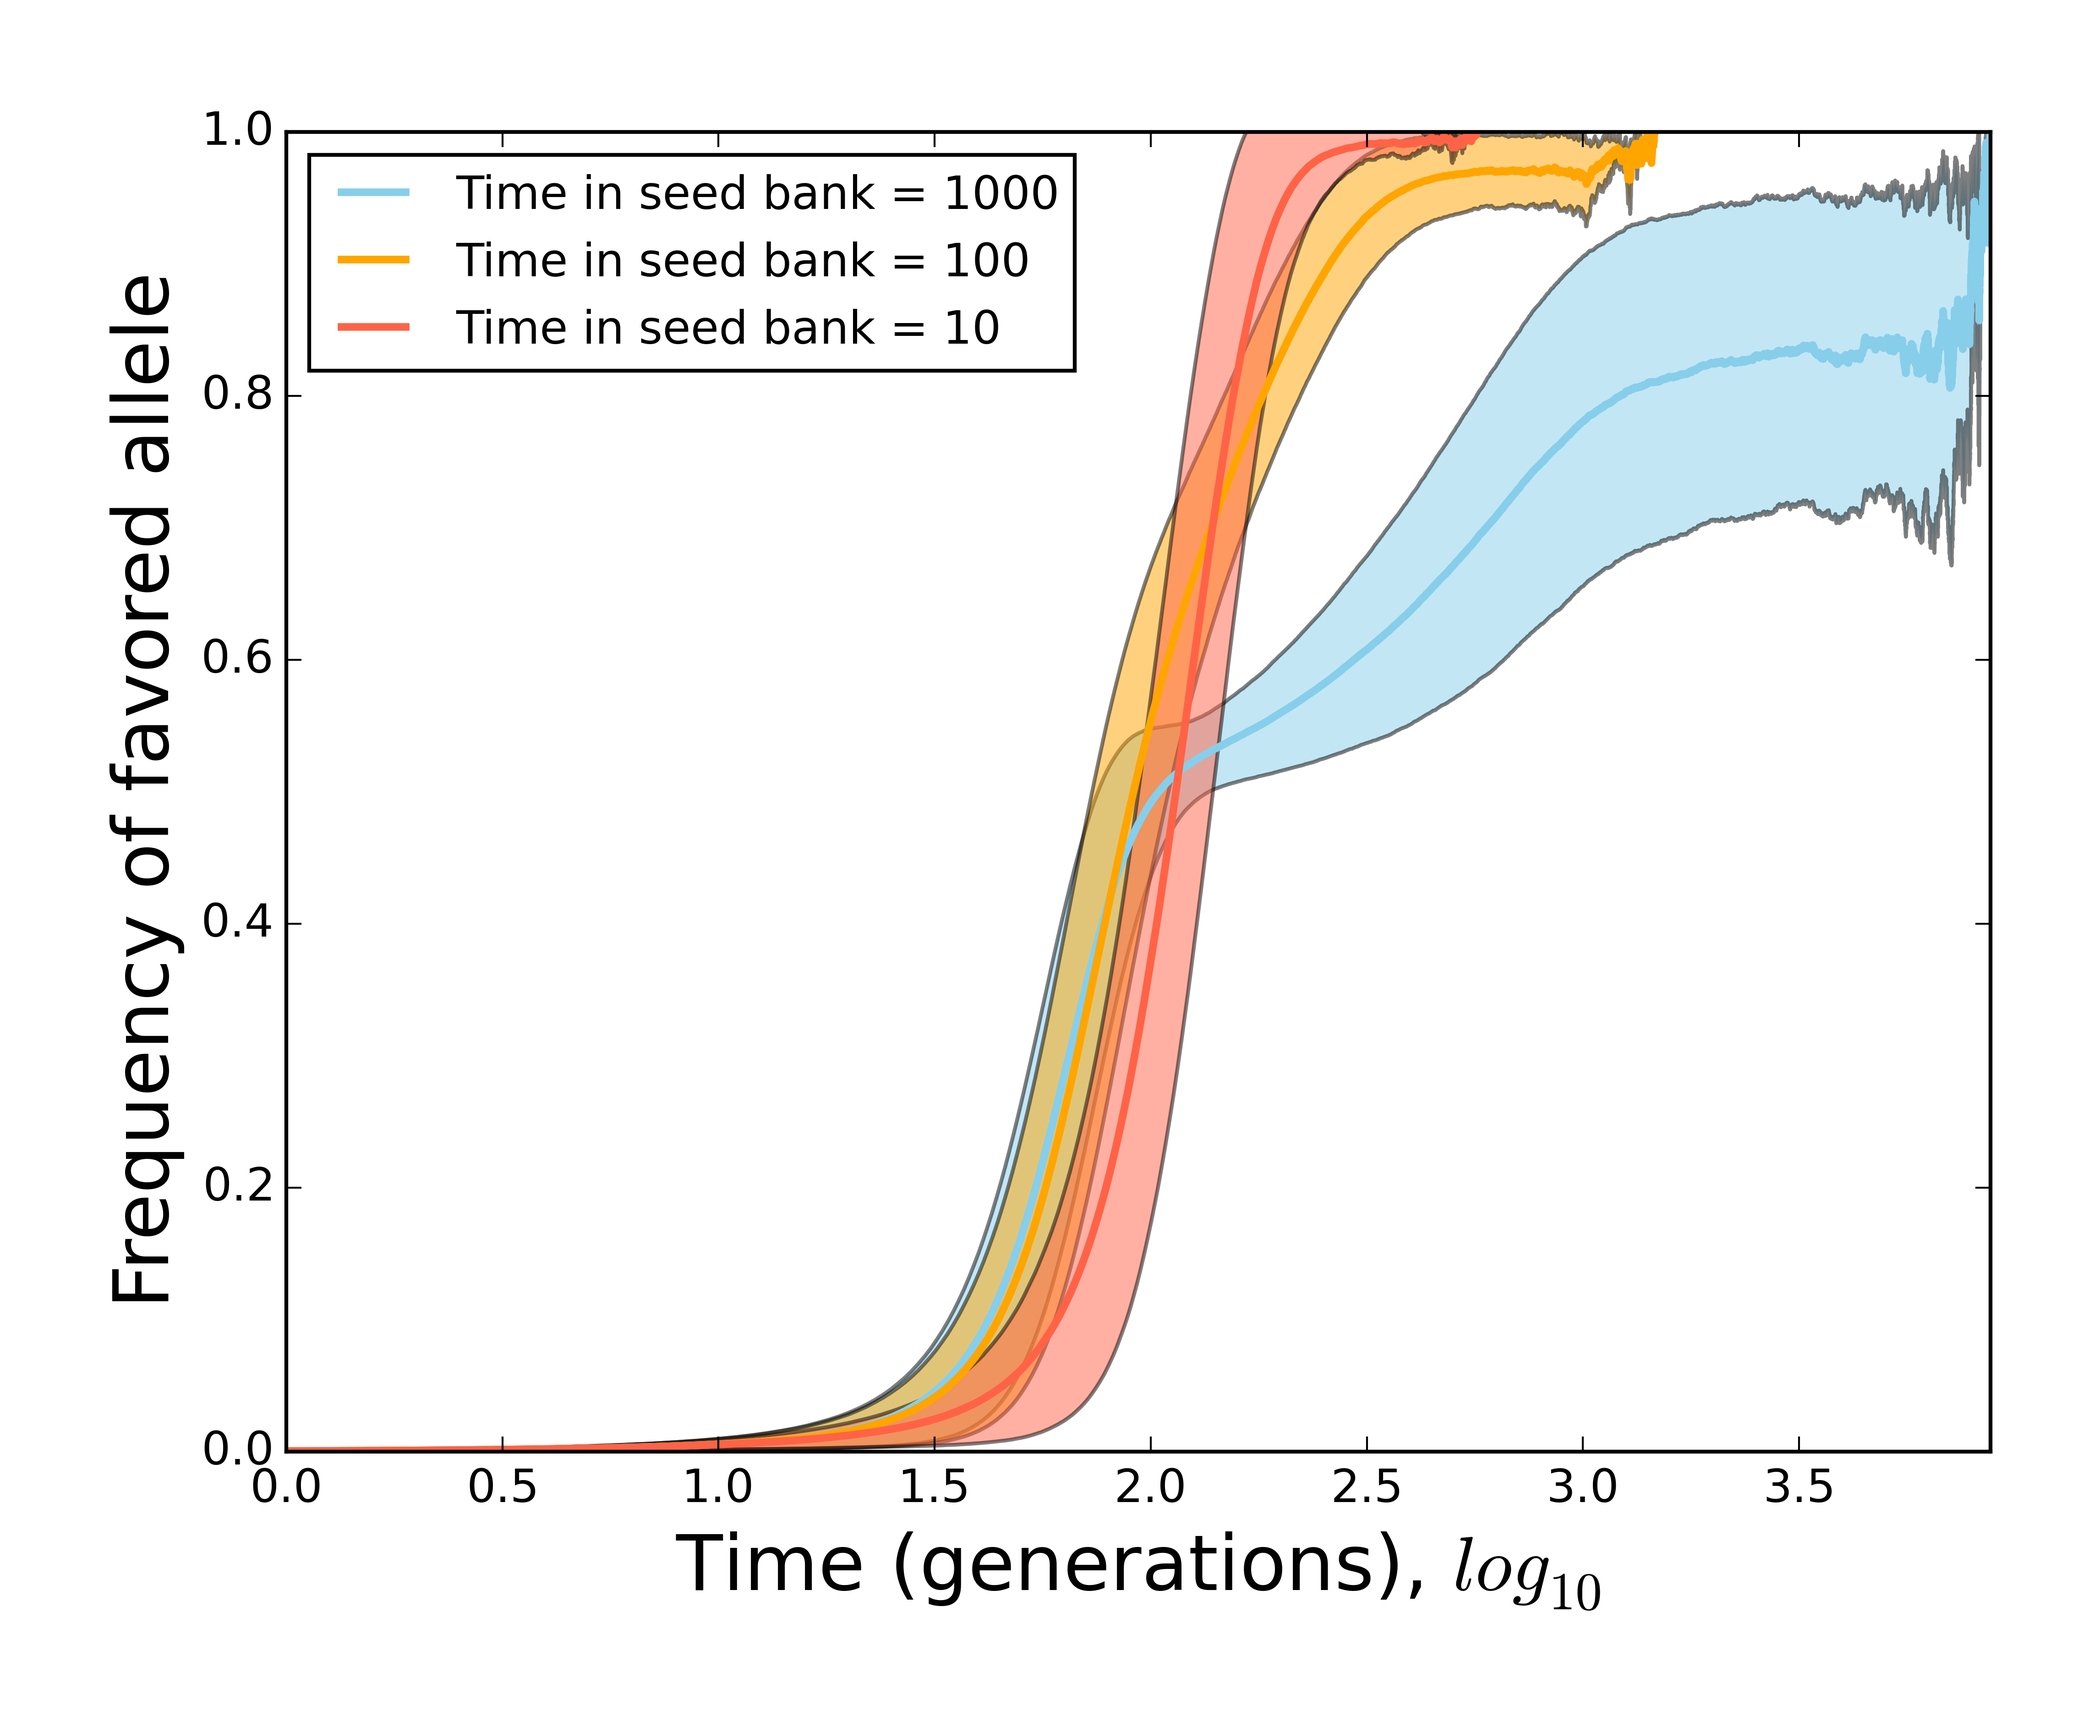
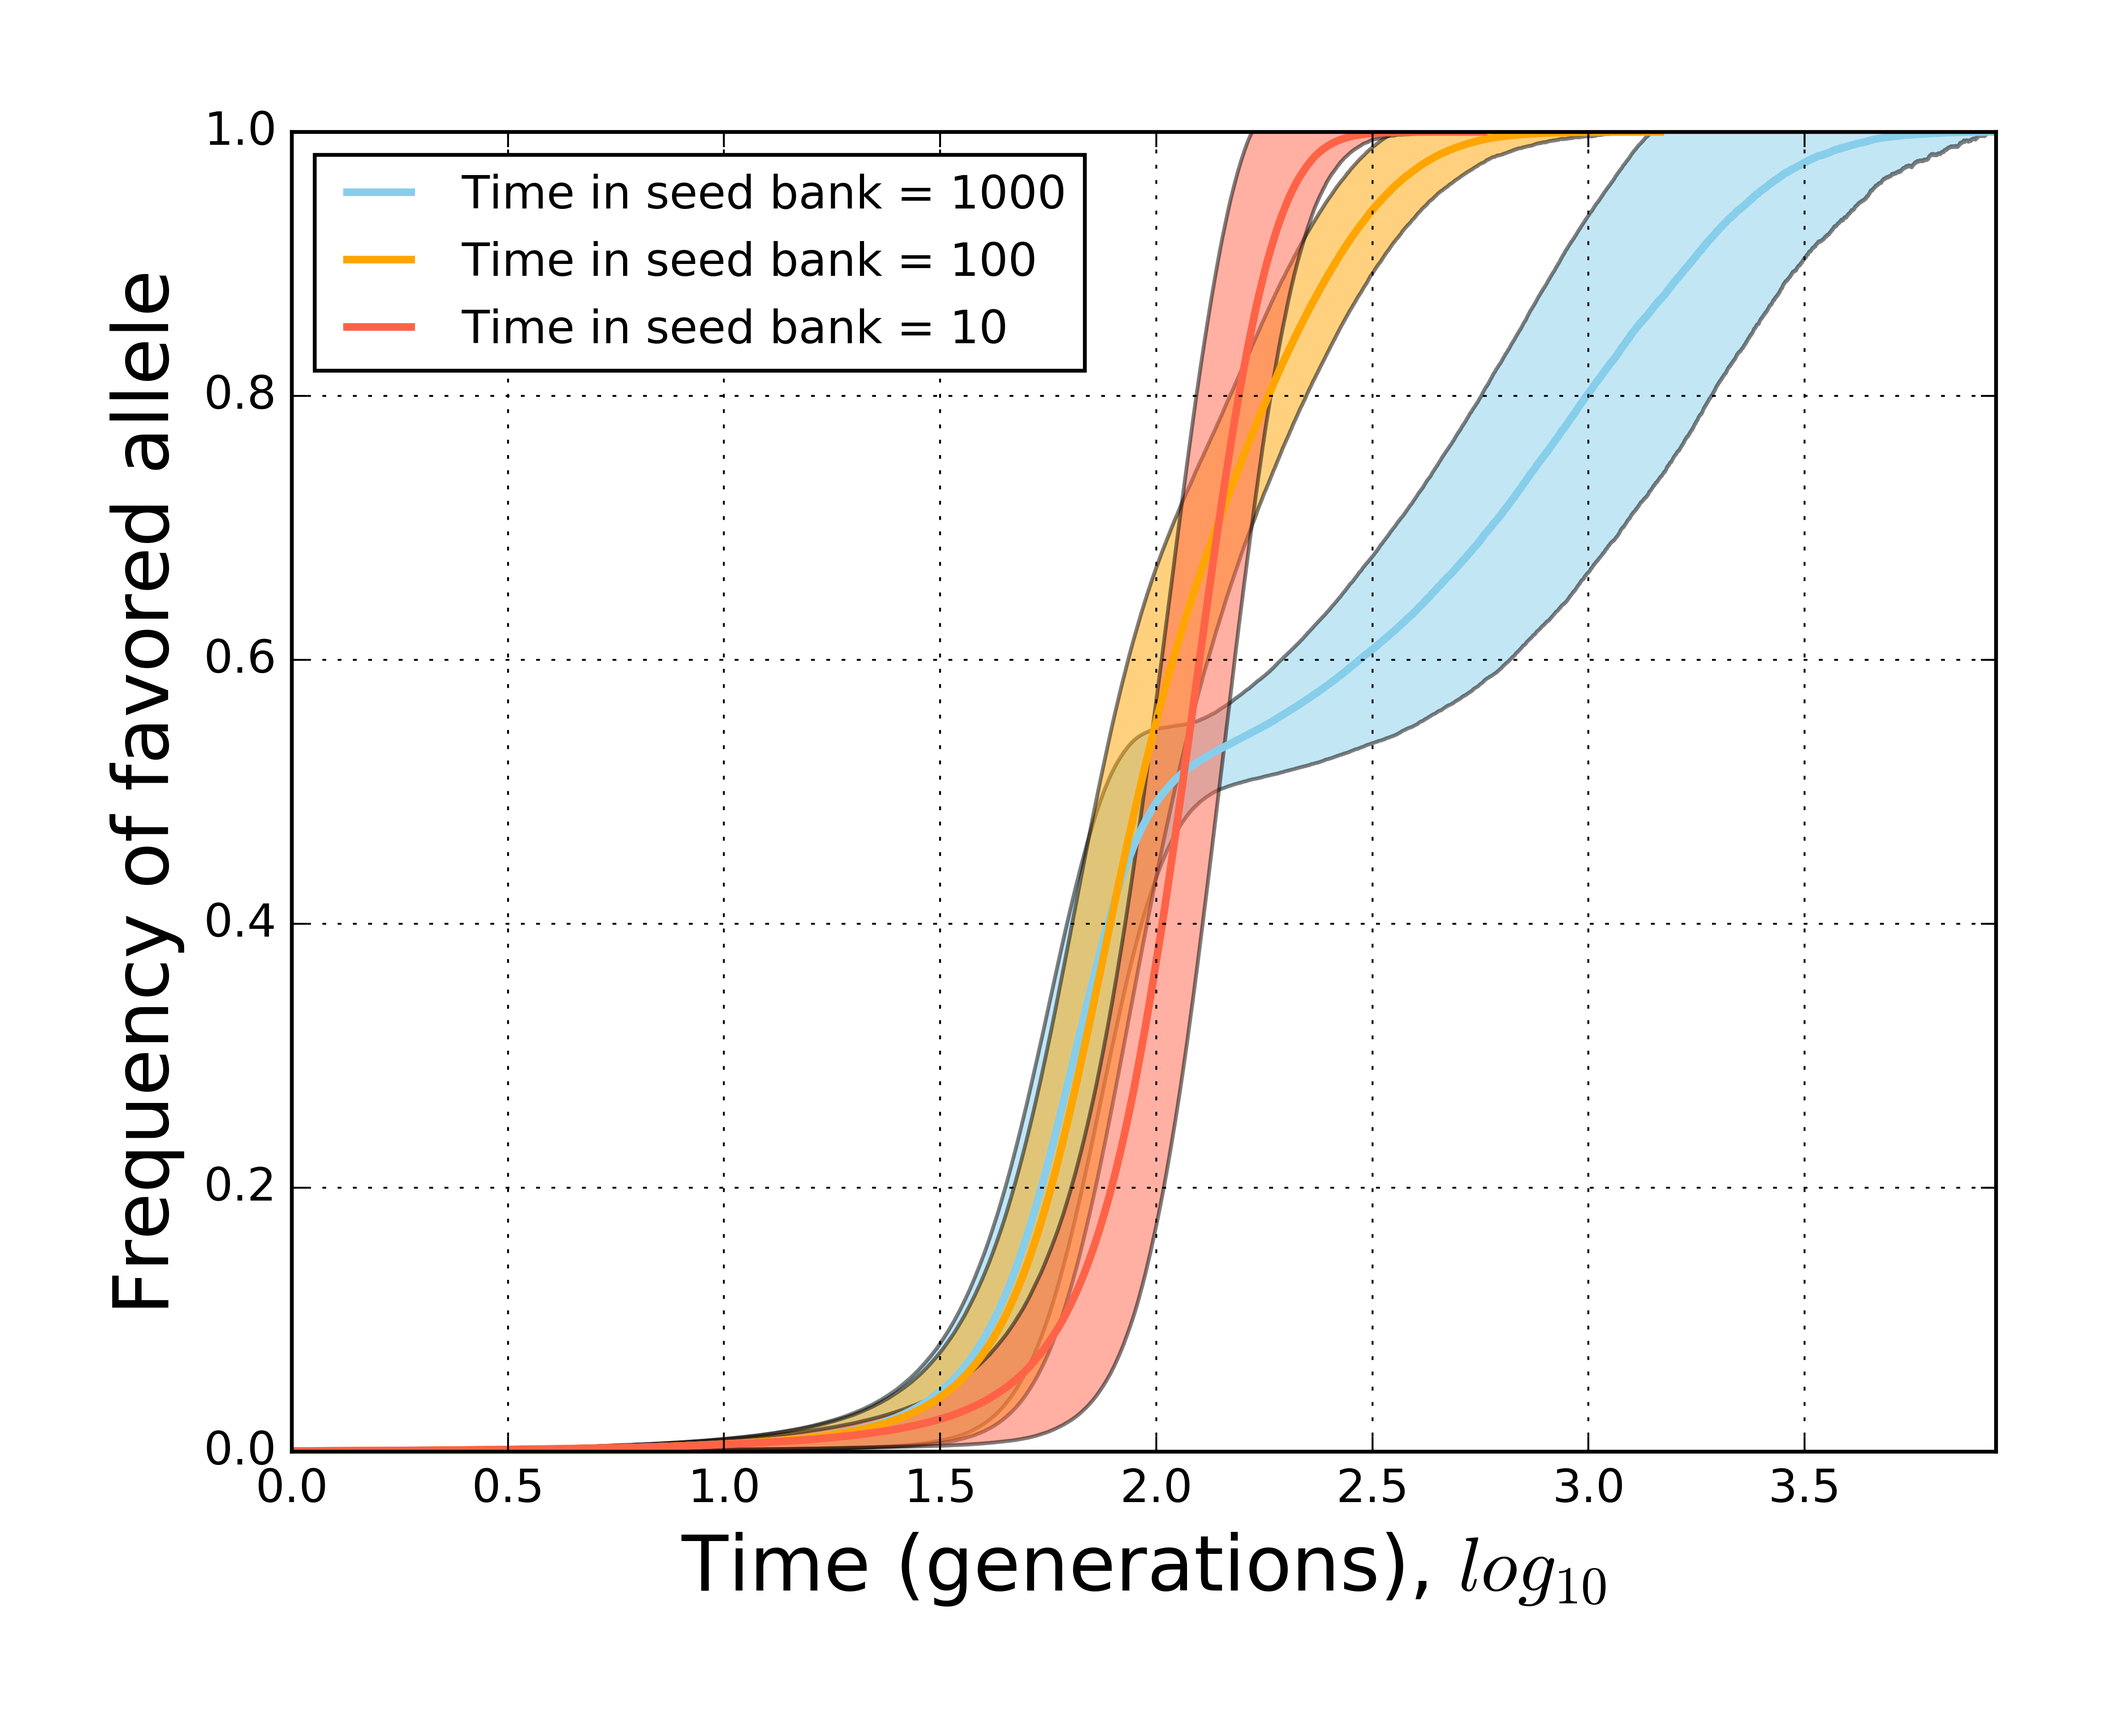
Add analytic model

diff --git a/Python/generateFigs.py b/Python/generateFigs.py
@@ -3,6 +3,8 @@ import pandas as pd
 import  matplotlib.pyplot as plt
 import os, argparse, math, itertools
 import numpy as np
+import scipy as sp
+import scipy.stats
 
 mydir = os.path.expanduser('~/github/DormSweep/')
 
@@ -49,6 +51,8 @@ def sweepDormFig(N = 1000, M = 1000, s = 0.1):
         p = []
         df = pd.read_csv(mydir + 'data/sweeps_dorm/sweep_N_' + str(N) + '_M_' + str(M) + '_c_' + \
             str(c) + '_s_' + str(s) + '.txt', header = None)
+        df = df.fillna(1.0)
+        #print df
 
         for index, row in df.iterrows():
             g.extend(row[~row.isnull()].index.values)
@@ -72,6 +76,7 @@ def sweepDormFig(N = 1000, M = 1000, s = 0.1):
             maxg = max(g)
     ax.set_xlim([0, np.log10(maxg)])
     ax.set_ylim([0, 1])
+    plt.grid()
     ax.legend(loc='upper left', fontsize = 12)
     ax.set_xlabel('Time (generations), ' + r'$log_{10}$', fontsize=20)
     ax.set_ylabel('Frequency of favored allele', fontsize=20)
@@ -79,4 +84,96 @@ def sweepDormFig(N = 1000, M = 1000, s = 0.1):
         bbox_inches = "tight", pad_inches = 0.4, dpi = 600)
     plt.close()
 
+def mean_confidence_interval(data, confidence=0.95):
+    a = 1.0*np.array(data)
+    n = len(a)
+    m, se = np.mean(a), scipy.stats.sem(a)
+    h = se * sp.stats.t._ppf((1+confidence)/2., n-1)
+    return m, m-h, m+h
+
+def TfixFig(M = 10000):
+    pops = ['N', 'M']
+    fig, ax = plt.subplots()
+    colors = ['#87CEEB',  '#FF6347']
+    pop_type = {'N': 'Active', 'M': 'Dormant'}
+    IN_N = pd.read_csv(mydir + 'data/T_fix/T_fix_N_sweep_N_1000_M_10000_s_0.1_r_100.txt', sep = ' ')
+    IN_M = pd.read_csv(mydir + 'data/T_fix/T_fix_M_sweep_N_1000_M_10000_s_0.1_r_100.txt', sep = ' ')
+    df_add = IN_N.add(IN_M, fill_value=0)
+    df = df_add.divide(2, axis=0)
+    Cs = df.columns.values.astype(float)
+    timeInSb = 1 / (Cs / M)
+    means = []
+    std = []
+
+    for column in df:
+        data = df[column].values.astype(float)
+        means.append(np.mean(data))
+        std.append(np.std(data))
+    #means = np.log10(np.asarray(means))
+    means = np.asarray(means)
+    std = np.asarray(std)
+    plt.axvline(x = np.log10(1000), linewidth=2, color='darkgrey',ls='--')
+
+    ax.plot(np.log10(timeInSb), means,  lw = 2, color = '#87CEEB')
+    plt.grid()
+    ax.fill_between(np.log10(timeInSb), means+std, means-std, facecolor='#87CEEB', alpha=0.5)
+
+    ax.set_xlabel('Average time in seed bank, ' + r'$log_{10}$', fontsize=20)
+    ax.set_ylabel( r'$T_{fix}$', fontsize=20)
+    fig.savefig(mydir + 'figs/Tfix.png', \
+    bbox_inches = "tight", pad_inches = 0.4, dpi = 600)
+    plt.close()
+
+
+
+def TfixFigActDorm(M = 10000):
+    pops = ['N', 'M']
+    fig, ax = plt.subplots()
+    colors = ['#87CEEB',  '#FF6347']
+    pop_type = {'N': 'Active', 'M': 'Dormant'}
+    for i, pop in enumerate(pops):
+        IN = pd.read_csv(mydir + 'data/T_fix/T_fix_' + str(pop) + '_sweep_N_1000_M_10000_s_0.1_r_100.txt', sep = ' ')
+        Cs = IN.columns.values.astype(float)
+
+        timeInSb = 1 / (Cs / M)
+        means = []
+        m_plus_hs = []
+        m_minus_hs = []
+        std = []
+        for column in IN:
+            data = IN[column].values.astype(float)
+            #m, m_plus_h, m_minus_h = mean_confidence_interval(data, confidence=0.95)
+            means.append(np.mean(data))
+            std.append(np.std(data))
+            #m_plus_hs.append(m_plus_h)
+            #m_minus_hs.append(m_minus_hs)
+            #print ms, m_plus_hs, m_minus_hs
+        means = np.asarray(means)
+        std = np.asarray(std)
+        #print Cs
+        #print ms
+        #print ms
+        #print len(ms), len(timeInSb)
+        #p_plot_mean = np.asarray(ms)
+        #p_plot_mean_plus_h = np.asarray(m_plus_hs)
+        #p_plot_mean_minus_h = np.asarray(m_minus_hs)
+        #print len(p_plot_mean), len(timeInSb)
+
+        ax.plot(np.log10(timeInSb), means, label= pop_type[pop], lw = 2, color = colors[i])
+        #ax.fill_between(np.log10(range(1, len(timeInSb )+1)), means, m_minus_hs, facecolor=colors[i], alpha=0.5)
+        ax.fill_between(np.log10(timeInSb), means+std, means-std, facecolor=colors[i], alpha=0.5)
+
+    ax.set_xlabel('Average time in seed bank, ' + r'$log_{10}$', fontsize=20)
+    plt.grid()
+    plt.legend(bbox_to_anchor=(0., 1.02, 1., .102), loc=3, \
+           ncol=2, mode="expand", borderaxespad=0.)
+    plt.axvline(x = np.log10(1000), linewidth=2, color='darkgrey',ls='--')
+
+    ax.set_ylabel( r'$T_{fix}$', fontsize=20)
+    fig.savefig(mydir + 'figs/Tfix_N_M.png', \
+        bbox_inches = "tight", pad_inches = 0.4, dpi = 600)
+    plt.close()
+
+TfixFigActDorm()
 sweepDormFig()
+TfixFig()

diff --git a/Python/solveAnalytic.py b/Python/solveAnalytic.py
@@ -7,45 +7,52 @@ import  matplotlib.pyplot as plt
 
 mydir = os.path.expanduser('~/github/DormSweep/')
 
-# Definition of parameters
-s = 0.1
-r = 0.7
-d = 0.3
-def dP_dt(P, t=0):
-    ''' Return the change in frequency of the favored allele for active and dormant
-    individuals. '''
-    '''P is an array with the allele frequencies of active (P[0]) and dormant (P[0]) individuals'''
-    return np.array( [(s * P[0] * (1-P[0]))  - (d * P[0]) + (r * P[1]) ,
-                        (-P[1] * r ) + (d * P[0])])
+
+# Jacobian class
+class modelMatrix():
+    def __init__(self, s, r, d):
+        self.r = r
+        self.s = s
+        self.d = d
+
+    def dP_dt(self, P, t=0):
+        ''' Return the change in frequency of the favored allele for active and dormant
+        individuals. '''
+        '''P is an array with the allele frequencies of active (P[0]) and dormant (P[0]) individuals'''
+        return np.array( [(self.s * P[0] * (1-P[0]))  - (self.d * P[0]) + (self.r * P[1]) ,
+                            (-P[1] * self.r ) + (self.d * P[0])])
+
+    def d2P_dt2(P, t=0):
+        """ Return the Jacobian matrix evaluated in X. """
+        return np.array([[ -self.d + self.s - (2 * P[0]) * self.s , self.r  ],
+                      [ self.d,  -self.r ] ])
 
 
-P_f0 = np.array([ 0. ,  0.])
-P_f1 = np.array([ 1, d/r ])
-all(dP_dt(P_f0) == np.zeros(2) ) and all(dP_dt(P_f1) == np.zeros(2)) # => True
-
-def d2P_dt2(P, t=0):
-    """ Return the Jacobian matrix evaluated in X. """
-    return np.array([[ -d + s - (2 * P[0]) * s , r  ],
-                  [ d,  -r ] ])
-
-#print d2P_dt2(P_f0)
-#print d2P_dt2(P_f1)
 
 def plotDynamics():
     fig = plt.figure()
-    t = np.linspace(0, 1000,  1000)              # time
-    P0 = np.array([0.01, 0])                     # initials conditions: 10 rabbits and 5 foxes
-    P, infodict = integrate.odeint(dP_dt, P0, t, full_output=True)
-    infodict['message']                     # >>> 'Integration successful.'
-    active, dormant = P.T
-    plt.plot(t, active, 'r-', label='Active')
-    plt.plot(t, dormant  , 'b-', label='Dormant')
+    s = 0.1
+    t = np.linspace(0, 10000,  10000)              # time
+    P0 = np.array([0.01, 0])
+    rs_and_ds = [0.001, 0.01, 0.1]
+    colors = ['#87CEEB', '#FFA500', '#FF6347']
+    for i, r_and_d in enumerate(rs_and_ds):
+        P, infodict = integrate.odeint(modelMatrix(s,r_and_d,r_and_d).dP_dt, \
+            P0, t, full_output=True)
+        #infodict['message']                     # >>> 'Integration successful.'
+        active, dormant = P.T
+        pop_mean = (active + dormant) / 2
+
+        plt.plot(np.log10(t), pop_mean, lw = 2, label= r'$m_{N,M}, m_{M,N} = $' + str(r_and_d), color = colors[i])
     plt.grid()
-    plt.legend(loc='best')
-    plt.xlabel('Time [generations]', fontsize=20)
-    plt.ylabel('Allele frequency', fontsize=20)
-    plt.title('Selective sweep of a favored allele')
-    plt.savefig(mydir + 'figs/testDyn.png')
+    plt.ylim(0,1)
+    plt.xlim(0,4)
+    plt.legend(loc='upper left', fontsize = 12)
+    plt.xlabel('Time (generations), ' + r'$log_{10}$', fontsize=20)
+    plt.ylabel('Frequency of favored allele', fontsize=20)
+    #plt.title('Selective sweep of a favored allele')
+    plt.savefig(mydir + 'figs/testDyn.png', bbox_inches = "tight", \
+        pad_inches = 0.4, dpi = 600)
 
 
 plotDynamics()

diff --git a/Python/cleanData.py b/Python/cleanData.py
@@ -5,23 +5,35 @@ import numpy as np
 
 mydir = os.path.expanduser('~/github/DormSweep/')
 
-def cleanData(N = 1000, M = 1000, s = 0.1, r = 100):
+def cleanData(N = 1000, M = 10000, s = 0.1, r = 100):
     #Cs = [1, 10, 100]
     #Cs = [100]
     maxg = 0
     pops = ['N', 'M']
     Cs = np.logspace(0, 4, num = 100, base=10.0)
+    # didn't  get last point
+    Cs = Cs[:-1]
+    #Cs = Cs[89:91]
     for pop in pops:
         df = pd.DataFrame()
         for j, c in enumerate(Cs):
-            df_j = pd.read_csv(mydir + 'data/sweeps_dorm/' + pop + '_sweep_N_' + str(N) + '_M_' + str(M) + '_c_' + \
-                str(c) + '_s_' + str(s) + '_r_' + str(r) + '.txt', header = None)
-            times = df_j.count(axis=1)
+            print pop, c
+            df_j = pd.read_csv(mydir + 'data/sweeps_mac/' + pop + '_sweep_N_' + str(N) + '_M_' + str(M) + '_c_' + \
+                str(c) + '_s_' + str(s) + '.txt', header = None)
+            df_j = pd.read_csv(mydir + 'data/sweeps_mac/' + pop + '_sweep_N_' + str(N) + '_M_' + str(M) + '_c_' + \
+                str(c) + '_s_' + str(s) + '.txt', header = None)
+            #times = []
+            #for index, row in df_j.iterrows():
+            #    times.append(row[row == 1.0].index[0])
+            times = df_j.apply(lambda x: x[x == 1.0].index[0], axis = 1)
+
             times.columns = str(c)
+            #df[str(c)] = np.asarray(times)
             df[str(c)] = times
+
 
         df.to_csv(mydir +'data/T_fix/T_fix_' +  pop + '_sweep_N_' + str(N) + '_M_' + str(M) + \
             '_s_' + str(s) + '_r_' + str(r) + '.txt' , sep = ' ', index = False)
 
 
-cleanData()
+#cleanData()

diff --git a/Python/sweepSim.py b/Python/sweepSim.py
@@ -117,7 +117,8 @@ def multipleS(N, reps = 100):
 def multipleSDorm(N, M, s = 0.1, reps = 100):
     #Ss = [0.001, 0.01, 0.1]
     #Cs = [1, 10, 100]
-    Cs = np.logspace(0, 4, num = 100, base=10.0)
+    #Cs = np.logspace(0, 4, num = 100, base=10.0)
+    Cs = [10000]
     for c in Cs:
         print c
         sweepSimDorm(N = N, M = M, c = c,  s = s, reps = reps)
